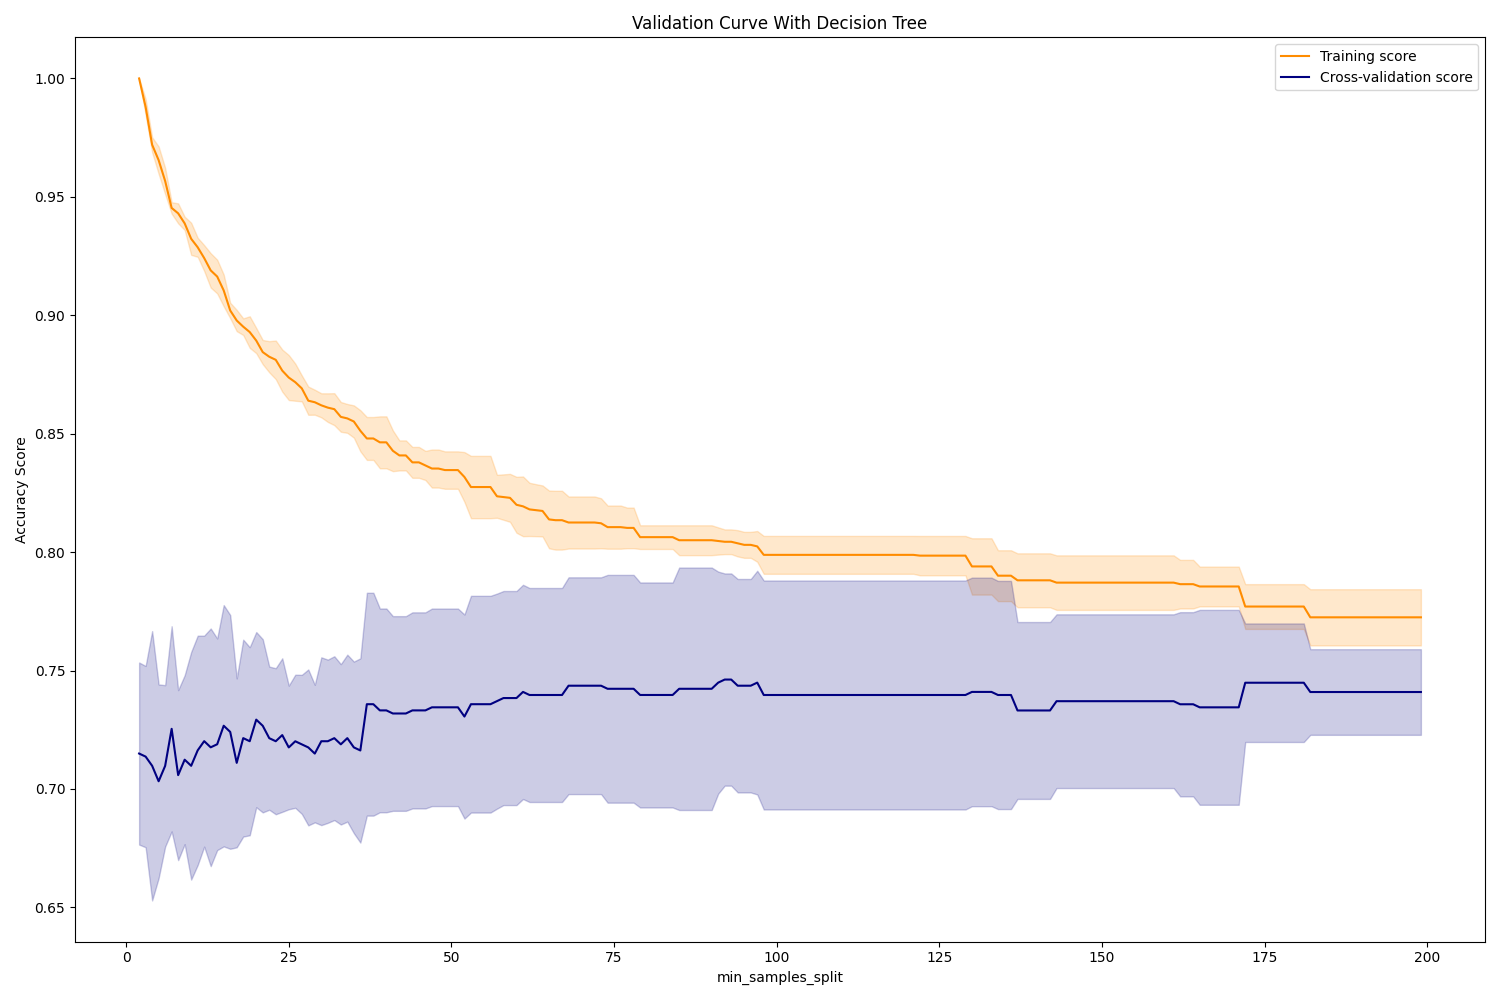
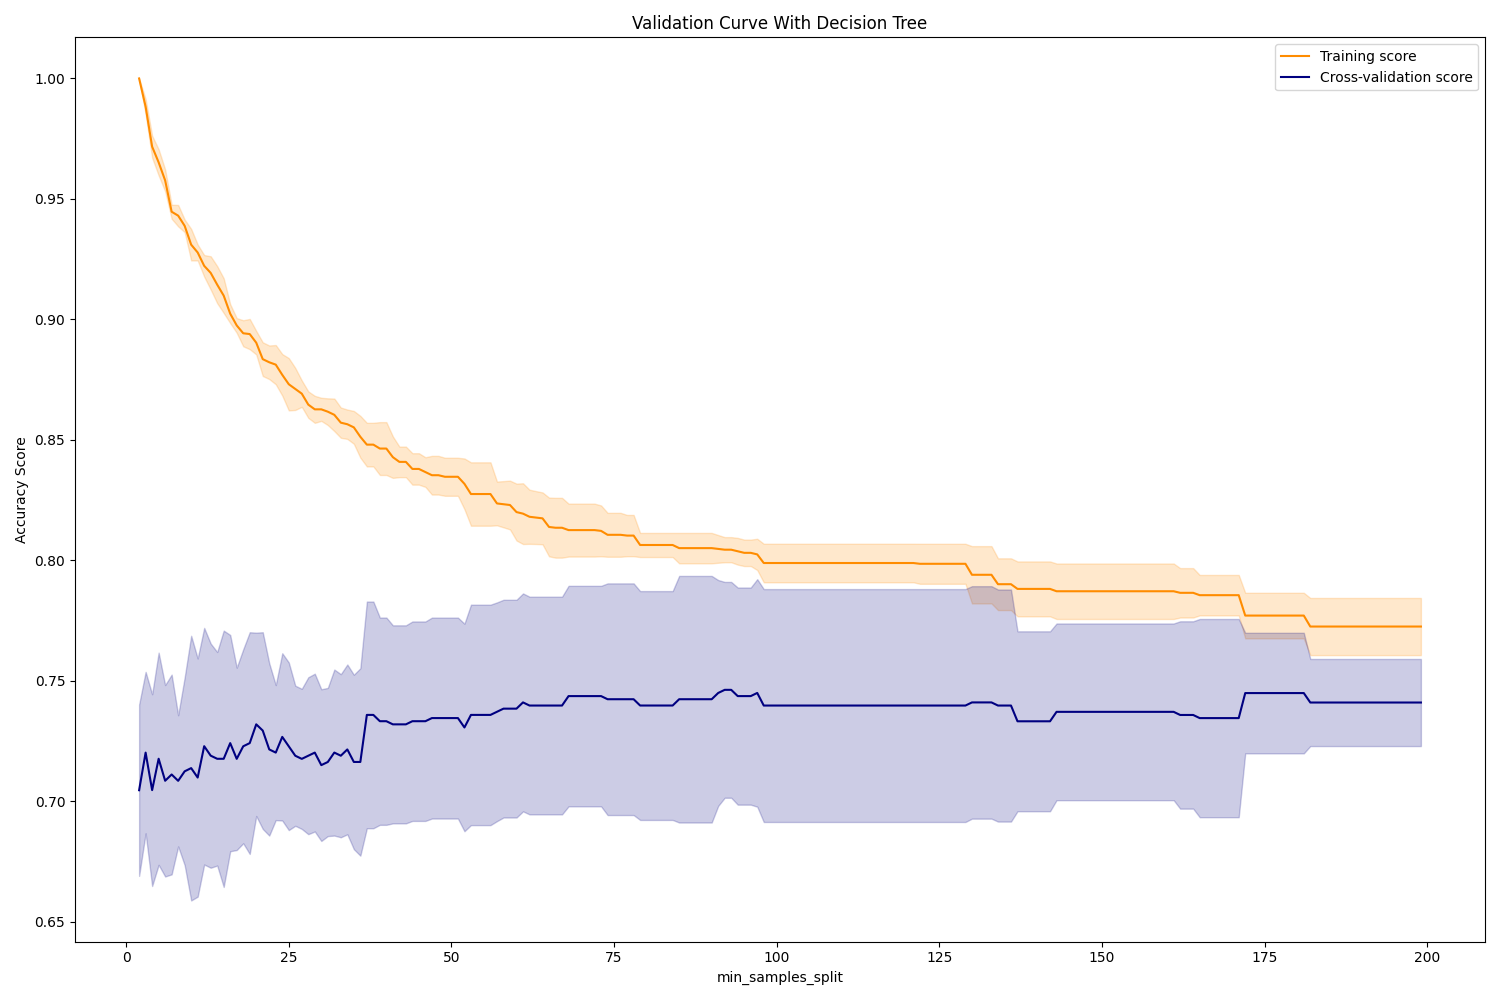
[ADD]: precise param grid

diff --git a/main.py b/main.py
@@ -120,9 +120,9 @@ def find_best_classifier(x_train, x_test, y_train, y_test):
 def search_with_grid(x_train, x_test, y_train, y_test):
     param_grid = {
         'criterion': ['gini', 'entropy'],
-        'max_depth': np.arange(1, 15),
-        'min_samples_split': np.arange(2, 50, 5),
-        'min_samples_leaf': np.arange(1, 50, 5),
+        'max_depth': [None] + list(range(1, 15)),
+        'min_samples_split': np.append([2], np.arange(5, 50, 5)),
+        'min_samples_leaf': np.append([2], np.arange(5, 50, 5)),
     }
     print("Commencing grid search")
     grid = GridSearchCV(
@@ -132,7 +132,7 @@ def search_with_grid(x_train, x_test, y_train, y_test):
         n_jobs=-1,
         verbose=1)
     grid.fit(x_train, y_train)
-    clf = DecisionTreeClassifier(**grid.best_params_)
+    clf = DecisionTreeClassifier(**grid.best_params_, random_state=0)
     clf.fit(x_train, y_train)
     y_pred = clf.predict(x_test)
     acc_score = accuracy_score(y_test, y_pred) * 100
@@ -141,10 +141,7 @@ def search_with_grid(x_train, x_test, y_train, y_test):
             acc_score,
             grid.best_params_,
             grid.best_score_))
-    print(classification_report(y_test, y_pred, target_names=[1, 0]))
-    clf = DecisionTreeClassifier(**grid.best_params_, random_state=0)
-    clf = clf.fit(x_train, y_train)
-
+    return clf
 
 def features_analysis(data_frame):
     tested_positive = data_frame[data_frame['class'] == 1]
